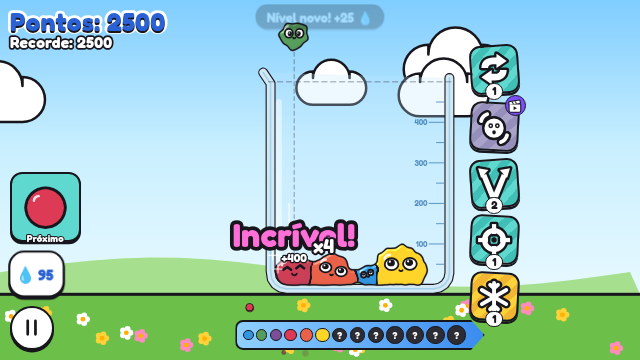
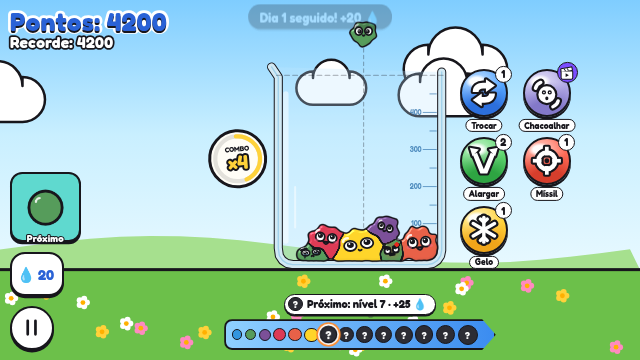
Botões de reforço: bolhas de gel com nome
Layout novo dos botões de reforço, escolhido pelo usuário entre 5 opções
(registro em docs/visuais/botoes-comparar-*.jpg e botoes-folha.png):
bolha redonda com uma cor por reforço (o prêmio continua dourado, o
acabado com vídeo lilás e o vazio cinza), o número no canto e o nome numa
etiqueta embaixo. Nomes curtos para a tinta e o espaço do prêmio; na
paisagem baixa a coluna colada no pote vira duas.

diff --git a/src/ui/estilo.css b/src/ui/estilo.css
@@ -39,7 +39,7 @@ html, body {
 #topo { grid-area: topo; display: flex; align-items: flex-start; gap: 10px; }
 #area { grid-area: area; min-height: 0; }
 #meta { grid-area: meta; display: flex; justify-content: center; }
-#base { grid-area: base; display: flex; justify-content: center; gap: clamp(8px, 2.5vmin, 18px); flex-wrap: wrap; }
+#base { grid-area: base; display: flex; justify-content: center; gap: clamp(10px, 3vmin, 20px); flex-wrap: wrap; }
 
 /* ---- paisagem (desktop 16:9 e celular deitado): colunas laterais */
 body[data-orient="paisagem"] #hud {
@@ -89,34 +89,48 @@ body[data-orient="paisagem"] .proximo { width: 5.2em; height: 5.2em; }
 .btn svg { width: 58%; height: 58%; stroke: currentColor; stroke-width: 2.8; fill: none; stroke-linecap: round; stroke-linejoin: round; }
 .btn.redondo { width: 2.6em; height: 2.6em; border-radius: 50%; flex: none; min-width: 44px; min-height: 44px; }
 
-/* power-up: placa turquesa listrada, levemente torta (so a placa: icone e contador ficam
-   retos e alinhados ao pixel), contador numa pilula embaixo */
+/* reforco: bolha de gel redonda, uma cor por reforco (o premio dourado; acabado e vazio apagados),
+   o numero no canto e o nome numa etiqueta embaixo (opcao 1 de 5, "Bolhas de gel", escolhida pelo
+   usuario em 2026-10-18; registro em docs/visuais/botoes-comparar-*.jpg e botoes-folha.png) */
 .poder {
-  width: 3.6em; height: 3.6em; min-width: 48px; min-height: 48px; border: 0; background: none; box-shadow: none;
-  isolation: isolate; --listra1: var(--turquesa); --listra2: var(--turquesa2);
+  width: 3.4em; height: 3.4em; min-width: 48px; min-height: 48px; margin-bottom: 1em; border: 0; background: none; box-shadow: none;
+  isolation: isolate; --cor: var(--turquesa); --cor2: var(--turquesa2); --claro: #c3f3ee;
 }
+.poder[data-poder="trocar"] { --cor: #55a6ff; --cor2: #2c6fdc; --claro: #cfe5ff; }
+.poder[data-poder="chacoalhar"] { --cor: #ff7ab7; --cor2: #db4690; --claro: #ffd6e9; }
+.poder[data-poder="alargar"] { --cor: #62d872; --cor2: #2ea442; --claro: #d2f7d6; }
+.poder[data-poder="mira"] { --cor: #ff6b57; --cor2: #d63e2c; --claro: #ffd6cf; }
+.poder.premio { --cor: #ffd23a; --cor2: #f0a51a; --claro: #fff3c2; }
+/* acabado com video (rewarded): lilas, nunca verde */
+.poder.video { --cor: #b1a8e4; --cor2: #8378c9; --claro: #e6e2f8; }
+.poder.vazio { --cor: #b4b4ba; --cor2: #8c8c94; --claro: #e4e4e8; }
 .poder::before {
-  content: ''; position: absolute; inset: 0; z-index: -1; border-radius: 0.8em; border: 0.17em solid var(--tinta);
-  box-shadow: 0 0.18em 0 var(--tinta); transform: rotate(var(--giro, 0deg));
-  background: repeating-linear-gradient(135deg, var(--listra1) 0 0.55em, var(--listra2) 0.55em 1.1em);
+  content: ''; position: absolute; inset: 0; z-index: -1; border-radius: 50%; border: 0.17em solid var(--tinta);
+  box-shadow: 0 0.2em 0 var(--tinta);
+  background:
+    radial-gradient(ellipse 26% 16% at 33% 24%, rgba(255, 255, 255, 0.95) 0 55%, rgba(255, 255, 255, 0) 100%),
+    radial-gradient(circle at 50% 118%, var(--cor2) 0 38%, rgba(0, 0, 0, 0) 74%),
+    radial-gradient(circle at 38% 30%, var(--claro) 0, var(--cor) 58%);
 }
-.poder:nth-child(odd) { --giro: -4deg; }
-.poder:nth-child(even) { --giro: 3deg; }
 .poder:active { transform: translateY(0.12em); box-shadow: none; }
 .poder:active::before { box-shadow: 0 0.06em 0 var(--tinta); }
+.poder.ativo::before { box-shadow: 0 0.2em 0 var(--tinta), 0 0 0 0.2em #fff, 0 0 0 0.4em var(--laranja); }
 .poder .conta {
-  position: absolute; bottom: -0.55em; left: 50%; transform: translateX(-50%); font-style: normal; font-size: 0.82em;
-  min-width: 1.6em; padding: 0 0.32em; line-height: 1.3; text-align: center; color: var(--tinta); background: #fff;
-  border: 0.16em solid var(--tinta); border-radius: 1em;
+  position: absolute; top: -0.3em; right: -0.35em; min-width: 1.6em; height: 1.6em; padding: 0 0.3em; display: grid;
+  place-items: center; font-style: normal; font-size: 0.78em; line-height: 1; color: var(--tinta); background: #fff;
+  border: 0.16em solid var(--tinta); border-radius: 0.8em;
 }
-.poder.vazio { --listra1: #9a9aa0; --listra2: #85858c; }
-.poder.ativo::before { outline: 0.2em dashed var(--laranja); outline-offset: 0.18em; }
-.poder.premio { --listra1: #ffd23a; --listra2: #f2b632; }
+.poder .nome {
+  position: absolute; top: calc(100% + 0.25em); left: 50%; transform: translateX(-50%); font-style: normal; font-size: 0.64em;
+  line-height: 1.2; white-space: nowrap; pointer-events: none; color: var(--tinta); background: #fff;
+  border: 0.17em solid var(--tinta); border-radius: 1em; padding: 0.05em 0.55em;
+}
+.poder.vazio .nome, .poder.vago .nome { opacity: 0.7; }
 /* espaco do premio ainda vazio: so o contorno tracejado */
 .poder.vago { pointer-events: none; }
-.poder.vago::before { background: rgba(255, 255, 255, 0.35); border-style: dashed; box-shadow: none; }
+.poder.vago::before { background: rgba(255, 255, 255, 0.4); border-style: dashed; box-shadow: none; }
 .poder.vago svg { opacity: 0.45; }
-/* selo de video (rewarded): nunca verde */
+/* selo de video (rewarded): nunca verde; no mesmo canto do numero (um ou outro) */
 .poder .selo { position: absolute; top: -0.55em; right: -0.55em; font-style: normal; font-size: 0.9em; background: var(--roxo);
   border: 0.12em solid var(--tinta); border-radius: 0.6em; padding: 0 0.2em; line-height: 1.3; }
 .poder .selo:has(svg) { width: 1.7em; height: 1.7em; padding: 0.12em; border-radius: 50%; display: grid; place-items: center; }
@@ -134,6 +148,7 @@ body[data-orient="paisagem"] .proximo { width: 5.2em; height: 5.2em; }
 /* icones dos prototipos (mexer, servir, ralo): traco branco com contorno */
 .poder svg:not(.icone) { stroke: #fff; stroke-width: 3; }
 .poder svg:not(.icone) .t { stroke: var(--tinta); stroke-width: 5.5; }
+.btn.poder > svg.icone { width: 66%; height: 66%; }
 
 /* ---- reforcos colados ao pote (layout B, escolhido pelo usuario em 2026-10-15). Na paisagem a
    coluna encosta na parede direita do pote da direita (o main.js poe a classe .colado e
@@ -142,7 +157,11 @@ body[data-orient="paisagem"] .proximo { width: 5.2em; height: 5.2em; }
 body.colado[data-orient="paisagem"] #hud { grid-template-columns: minmax(170px, 22%) minmax(0, 1fr) minmax(90px, 10%); }
 body.colado[data-orient="paisagem"] #base {
   position: fixed; left: var(--encosto-x, auto); top: var(--encosto-y, 50%); transform: translateY(-50%);
-  flex-direction: column; flex-wrap: nowrap; gap: clamp(8px, 1.6vmin, 14px);
+  display: grid; justify-items: center; align-items: start; gap: 0.5em 1.1em;
+}
+/* paisagem baixa (celular deitado): duas colunas, para a coluna com os nomes caber na altura */
+@media (max-height: 460px) {
+  body.colado[data-orient="paisagem"] #base { grid-template-columns: auto auto; }
 }
 
 /* barra de evolucao (seta com bolinhas, como no conceito) */
@@ -186,7 +205,7 @@ body.semMusica #bMusica { opacity: 0.7; }
   background: var(--tinta); color: #fff; border-radius: 1em; padding: 0.25em 0.75em; }
 @keyframes tocarDica { 0%, 100% { transform: translateY(0.5em); } 45% { transform: translateY(0); } 55% { transform: translateY(0.12em); } }
 .poder.dica::before { animation: pulsaDica 0.9s ease-in-out infinite; }
-@keyframes pulsaDica { 50% { transform: rotate(var(--giro, 0deg)) scale(1.14); box-shadow: 0 0.18em 0 var(--tinta), 0 0 0 0.3em var(--laranja); } }
+@keyframes pulsaDica { 50% { transform: scale(1.14); box-shadow: 0 0.2em 0 var(--tinta), 0 0 0 0.3em var(--laranja); } }
 
 /* ---- meta da vez acima da barra de evolucao (ao lado dela na paisagem) e o alvo pulsando */
 #meta { flex-direction: column; align-items: center; gap: 0.35em; }
@@ -289,8 +308,7 @@ body[data-orient="paisagem"] #revelacao .bola { width: 3.2em; height: 3.2em; }
 @keyframes pulo { 30% { transform: scale(1.18); } }
 body[data-orient="paisagem"] .gotas { align-self: flex-start; }
 
-/* selo de video no reforco acabado (roxo, nunca verde) */
-.poder.video { --listra1: #a9a3c9; --listra2: #968fbb; }
+/* sem anuncio, o reforco acabado nao oferece video */
 body.sem-anuncio .poder .selo { display: none; }
 
 /* ---- aviso (missao cumprida, nivel novo, sequencia): nao bloqueia o toque */

diff --git a/src/i18n/textos.js b/src/i18n/textos.js
@@ -34,7 +34,7 @@ const TEXTOS = {
     'objeto.bichinhos': 'Critters', 'objeto.boneco': 'Googly eyes', 'objeto.chapeus': 'Hats', 'objeto.monstrinhos': 'Monsters',
     'poder.trocar': 'Swap', 'poder.chacoalhar': 'Shake', 'poder.alargar': 'Widen', 'poder.mira': 'Missile',
     'poder.calor': 'Heat', 'poder.gelo': 'Freeze', 'poder.tesoura': 'Scissors', 'poder.tinta': 'Paint drop',
-    'poder.video': 'watch a video for +1', 'poder.vago': 'Prize slot',
+    'poder.video': 'watch a video for +1', 'poder.vago': 'Prize slot', 'poder.tinta.curto': 'Paint', 'poder.vago.curto': 'Prize',
     somEfeitos: 'Sound effects and voices', somMusica: 'Music',
     grupoSkins: 'Skins', editar: 'Edit', nivelN: 'Level {n}', 'skin.padrao': 'Default', 'skin.minha': 'My skin',
     'skin.bolhas': 'Bubbles', 'skin.gotas': 'Raindrops', 'skin.melancia': 'Watermelon', 'skin.folhinhas': 'Leaves',
@@ -76,7 +76,7 @@ const TEXTOS = {
     'objeto.bichinhos': 'Bichinhos', 'objeto.boneco': 'Olhos de boneco', 'objeto.chapeus': 'Chapéus', 'objeto.monstrinhos': 'Monstrinhos',
     'poder.trocar': 'Trocar', 'poder.chacoalhar': 'Chacoalhar', 'poder.alargar': 'Alargar', 'poder.mira': 'Míssil',
     'poder.calor': 'Calor', 'poder.gelo': 'Gelo', 'poder.tesoura': 'Tesoura', 'poder.tinta': 'Gota de tinta',
-    'poder.video': 'assista a um vídeo para ganhar +1', 'poder.vago': 'Espaço do prêmio',
+    'poder.video': 'assista a um vídeo para ganhar +1', 'poder.vago': 'Espaço do prêmio', 'poder.tinta.curto': 'Tinta', 'poder.vago.curto': 'Prêmio',
     somEfeitos: 'Efeitos e falas', somMusica: 'Música',
     grupoSkins: 'Skins', editar: 'Editar', nivelN: 'Nível {n}', 'skin.padrao': 'Padrão', 'skin.minha': 'Minha',
     'skin.bolhas': 'Bolhas', 'skin.gotas': 'Gotas', 'skin.melancia': 'Melancia', 'skin.folhinhas': 'Folhinhas',
@@ -118,7 +118,7 @@ const TEXTOS = {
     'objeto.bichinhos': 'Bichitos', 'objeto.boneco': 'Ojos locos', 'objeto.chapeus': 'Sombreros', 'objeto.monstrinhos': 'Monstruitos',
     'poder.trocar': 'Cambiar', 'poder.chacoalhar': 'Sacudir', 'poder.alargar': 'Ensanchar', 'poder.mira': 'Misil',
     'poder.calor': 'Calor', 'poder.gelo': 'Hielo', 'poder.tesoura': 'Tijeras', 'poder.tinta': 'Gota de tinta',
-    'poder.video': 'mira un video para +1', 'poder.vago': 'Espacio del premio',
+    'poder.video': 'mira un video para +1', 'poder.vago': 'Espacio del premio', 'poder.tinta.curto': 'Tinta', 'poder.vago.curto': 'Premio',
     somEfeitos: 'Efectos y voces', somMusica: 'Música',
     grupoSkins: 'Skins', editar: 'Editar', nivelN: 'Nivel {n}', 'skin.padrao': 'Original', 'skin.minha': 'La mía',
     'skin.bolhas': 'Burbujas', 'skin.gotas': 'Gotas', 'skin.melancia': 'Sandía', 'skin.folhinhas': 'Hojitas',

diff --git a/tools/icones.html b/tools/icones.html
@@ -7,7 +7,7 @@
 <style>
   body { overflow: auto; background: #f3f2ee; padding: 16px; font-size: 18px; height: auto; touch-action: auto; }
   h2 { margin: 18px 0 6px; font-size: 18px; }
-  .linha { display: flex; gap: 22px; align-items: center; flex-wrap: wrap; margin: 10px 0 22px; }
+  .linha { display: flex; gap: 22px; align-items: flex-start; flex-wrap: wrap; margin: 10px 0 22px; }
   .linha .poder { flex: none; }
   .t48 { font-size: 13.3px; } .t64 { font-size: 17.8px; } .t96 { font-size: 26.7px; }
   canvas { background: #5fd9cf; border-radius: 12px; }
@@ -22,10 +22,16 @@
 <div class="linha" id="canvas"></div>
 <script type="module">
   import { svgIcone, desenharIcone } from '../src/ui/icones.js';
+  import { textos } from '../src/i18n/textos.js';
+  const T = textos('pt');
   const ids = ['trocar', 'chacoalhar', 'alargar', 'mira', 'calor', 'gelo', 'tesoura', 'tinta'];
-  const botao = (id, extra = '', conta = '1') => `<button class="btn poder ${extra}">${svgIcone(id)}<i class="conta">${conta}</i><i class="selo" ${extra.includes('video') ? '' : 'hidden'}>${svgIcone('video')}</i></button>`;
+  const PREMIOS = ['calor', 'gelo', 'tesoura', 'tinta'];
+  // mesma marcacao do src/ui/hud.js (bolha de gel com o nome embaixo, escolha de 2026-10-18)
+  const nome = (id) => `<i class="nome">${T['poder.' + id + '.curto'] || T['poder.' + id]}</i>`;
+  const botao = (id, extra = '', conta = '1') => `<button class="btn poder ${extra}${PREMIOS.includes(id) ? ' premio' : ''}" data-poder="${id}">${svgIcone(id)}`
+    + `<i class="conta" ${extra.includes('video') ? 'hidden' : ''}>${conta}</i><i class="selo" ${extra.includes('video') ? '' : 'hidden'}>${svgIcone('video')}</i>${nome(id)}</button>`;
   document.getElementById('novos').innerHTML = ['t48', 't64', 't96'].map((t) => `<div class="linha ${t}">${ids.map((id) => botao(id)).join('')}</div>`).join('');
-  document.getElementById('estados').innerHTML = botao('trocar') + botao('chacoalhar', 'vazio', '0') + botao('alargar', 'video', '') + botao('mira', 'ativo') + botao('gelo', 'premio') + `<button class="btn poder vago">${svgIcone('vago')}</button>`;
+  document.getElementById('estados').innerHTML = botao('trocar') + botao('chacoalhar', 'vazio', '0') + botao('alargar', 'video', '') + botao('mira', 'ativo') + botao('gelo') + `<button class="btn poder vago" data-poder="vago">${svgIcone('vago')}${nome('vago')}</button>`;
   const cv = document.getElementById('canvas');
   for (const id of ids) {
     const c = document.createElement('canvas');

diff --git a/src/ui/hud.js b/src/ui/hud.js
@@ -45,6 +45,11 @@ function fundoTextura(cor, t) {
  */
 export function criarHud(doc, T) {
   const icone = (id) => svgIcone(id) || ICONES_PROTOTIPOS[id] || '';
+  /** etiqueta com o nome do reforco embaixo do botao (pedido do usuario em 2026-10-18); os prototipos nao tem nome */
+  const nomeCurto = (id) => {
+    const n = T['poder.' + id + '.curto'] || T['poder.' + id];
+    return n ? `<i class="nome" aria-hidden="true">${n}</i>` : '';
+  };
   const $ = (id) => /** @type {HTMLElement} */ (doc.getElementById(id));
   let encosto = '';
   /** @type {Array<any>|null} skins da partida (indice = nivel), para a barra e o proximo */
@@ -212,7 +217,8 @@ export function criarHud(doc, T) {
         const b = doc.createElement('button');
         b.className = 'btn poder' + (PREMIOS.includes(p.id) ? ' premio' : '');
         const selo = svgIcone('video');
-        b.innerHTML = icone(p.id) + `<i class="conta"></i><i class="selo" aria-hidden="true" hidden>${selo}</i>`;
+        b.dataset.poder = p.id;
+        b.innerHTML = icone(p.id) + `<i class="conta"></i><i class="selo" aria-hidden="true" hidden>${selo}</i>` + nomeCurto(p.id);
         b.setAttribute('aria-label', T['poder.' + p.id] || p.id);
         b.title = T['poder.' + p.id] || '';
         b.addEventListener('click', () => cb.poder(p.id));
@@ -226,7 +232,8 @@ export function criarHud(doc, T) {
         v.className = 'btn poder vago';
         v.tabIndex = -1;
         v.setAttribute('aria-label', T['poder.vago'] || '');
-        v.innerHTML = icone('vago');
+        v.dataset.poder = 'vago';
+        v.innerHTML = icone('vago') + nomeCurto('vago');
         el.base.appendChild(v);
         poderes.set('_vago', v);
       }

diff --git a/docs/autoria.md b/docs/autoria.md
@@ -238,3 +238,16 @@ Pedidos com prints anotados do Merge Lab (plano em
   `docs/visuais/nivel14-comparar.jpg`; as outras três saíram do código), as skins **Troféus** e **Coroas**,
   os olhos (`humor-480x600.jpg`), o loading (`carregando*`), o 14 comemorando (`fusao-super-*`) e o HUD
   (`hud-poki-retrato.png`). Build: **versão 2.0.2**.
+
+## 2026-10-18: botões de reforço com nome
+- Pedido: "Quero mudar totalmente o layout desses botões [print da coluna de reforços], me dê 5 opções de
+  escolha" e, no meio, "Coloque nome nos botões". Cinco opções, todas com o nome, no jogo de verdade
+  (`docs/visuais/botoes-comparar-{1031x580,390x844,640x360}.jpg` e a folha com os estados,
+  `botoes-folha.png`): 1 bolhas de gel, 2 gotas de slime, 3 frascos do laboratório, 4 pílulas com nome,
+  5 bandeja escura.
+- **Escolha: 1, bolhas de gel** (a recomendada). Botão redondo e brilhante com **uma cor por reforço**
+  (trocar azul, chacoalhar rosa, alargar verde, míssil vermelho; o prêmio continua dourado, o acabado com
+  vídeo lilás e o vazio cinza), o número no canto de cima e o **nome numa etiqueta branca embaixo**. Sem a
+  placa listrada e torta de antes. Nomes curtos onde não cabia: "Tinta" (gota de tinta) e "Prêmio" (o
+  espaço do prêmio). A posição continua a da escolha de 2026-10-15 (colada no pote); na paisagem baixa
+  (até 460 px de altura) a coluna vira duas. As outras quatro e o `?botoes` saíram do código.

diff --git a/CLAUDE.md b/CLAUDE.md
@@ -90,6 +90,8 @@ cenários, personagens e **skins** por gotas) e **Missões** (3 do dia + sequên
   - **loading em camadas**: uma gota de cada nível cai e vira uma camada daquela cor;
   - **HUD no retrato**: o placar sai do canto do botão da Poki (58 px à esquerda; abaixo de 380 px de
     largura, desce para baixo dele) e mostra só o número dos pontos.
+- **Botões de reforço (2026-10-18, depois da 2.0.2):** bolhas de gel com uma cor por reforço, o número no
+  canto e o nome numa etiqueta embaixo (opção 1 de 5; registro em `docs/visuais/botoes-comparar-*`).
 - Protótipos (Croma, Loja, Molde, lab) só por `?modelo=` ou pelo hub; o `tools/empacotar.mjs`
   apaga os arquivos deles e as linhas `// prototipo` do `main.js`.
 
